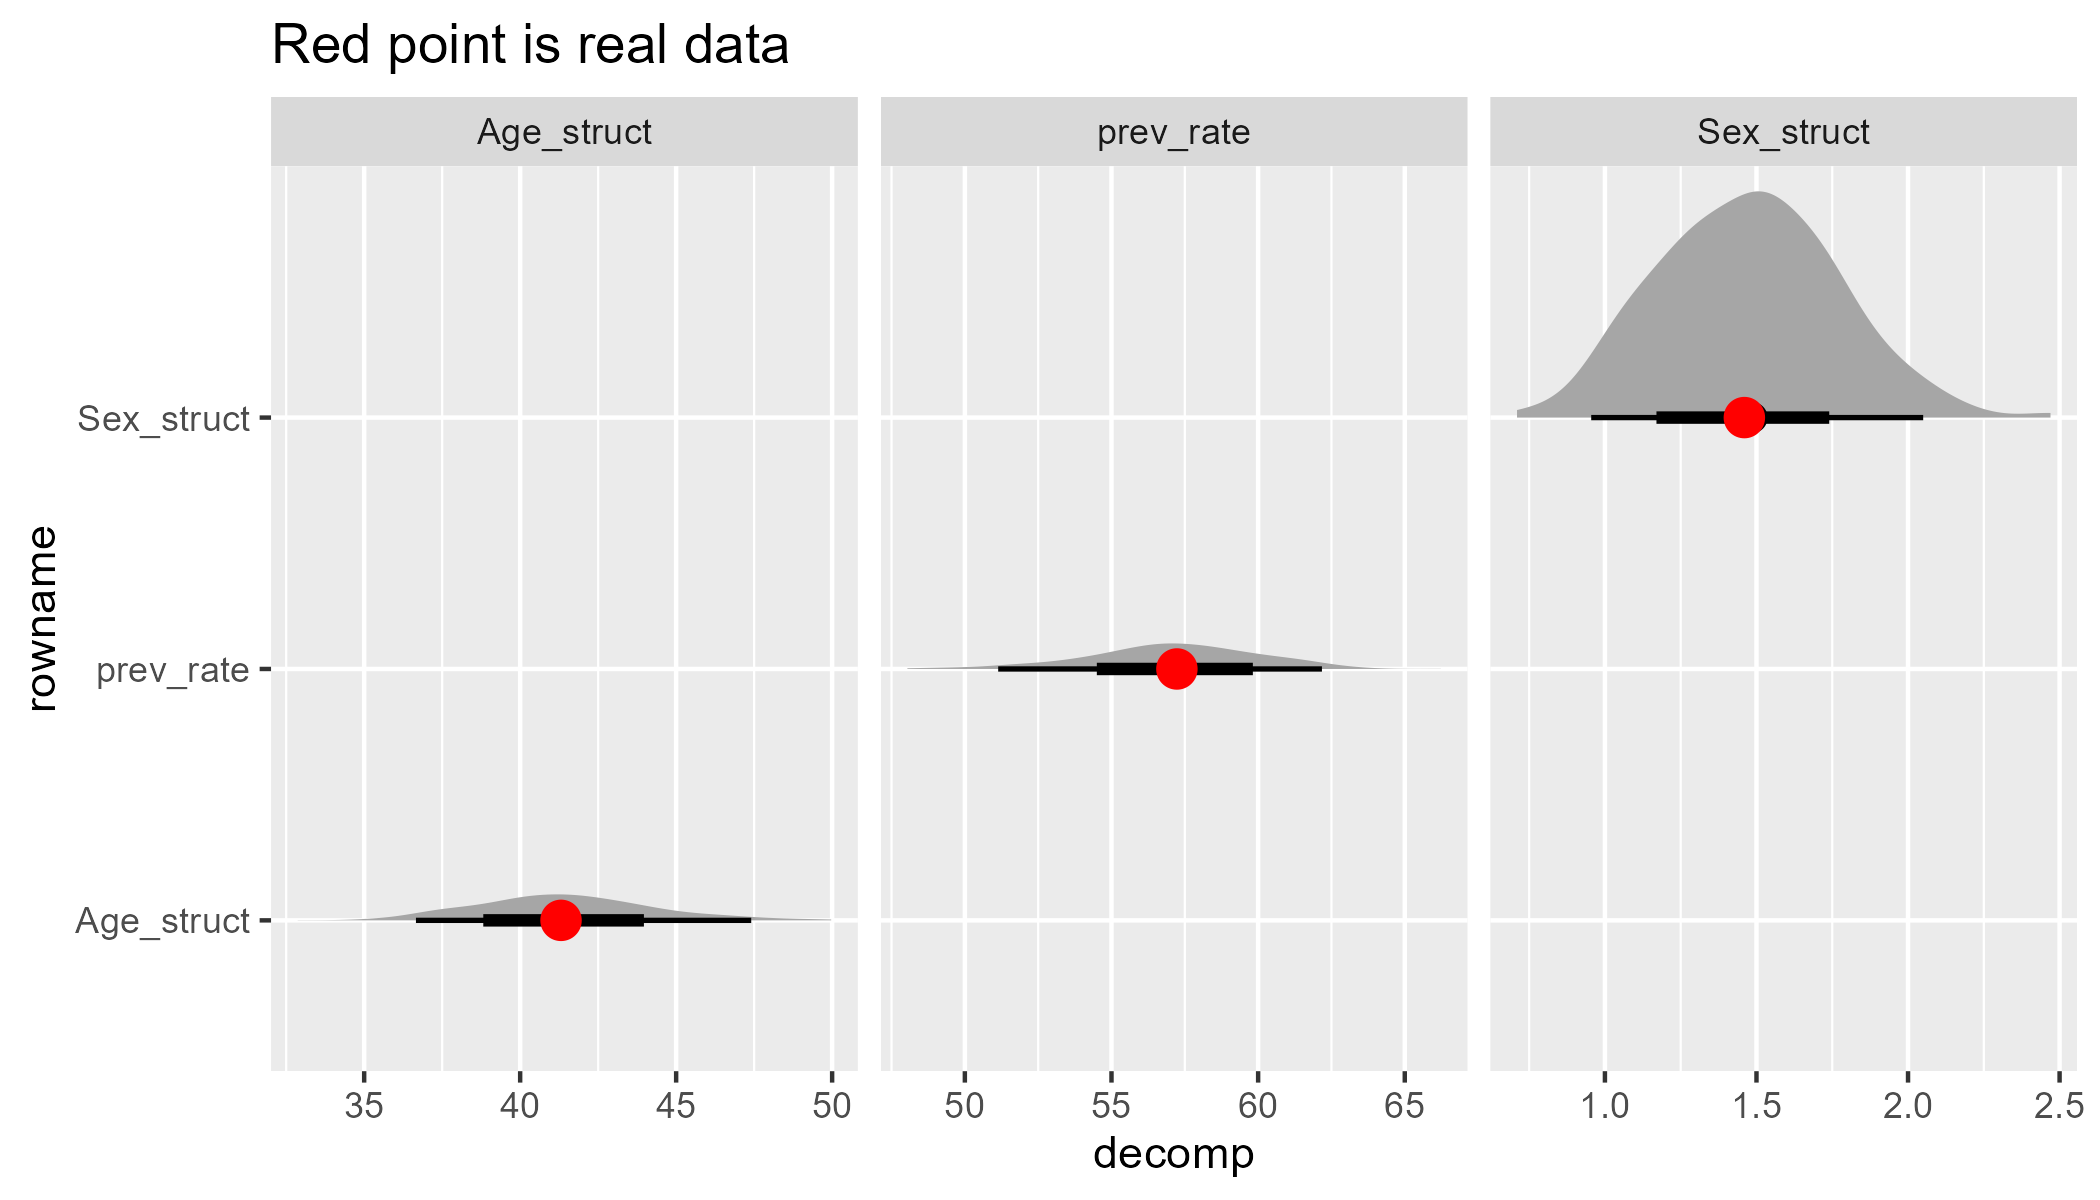
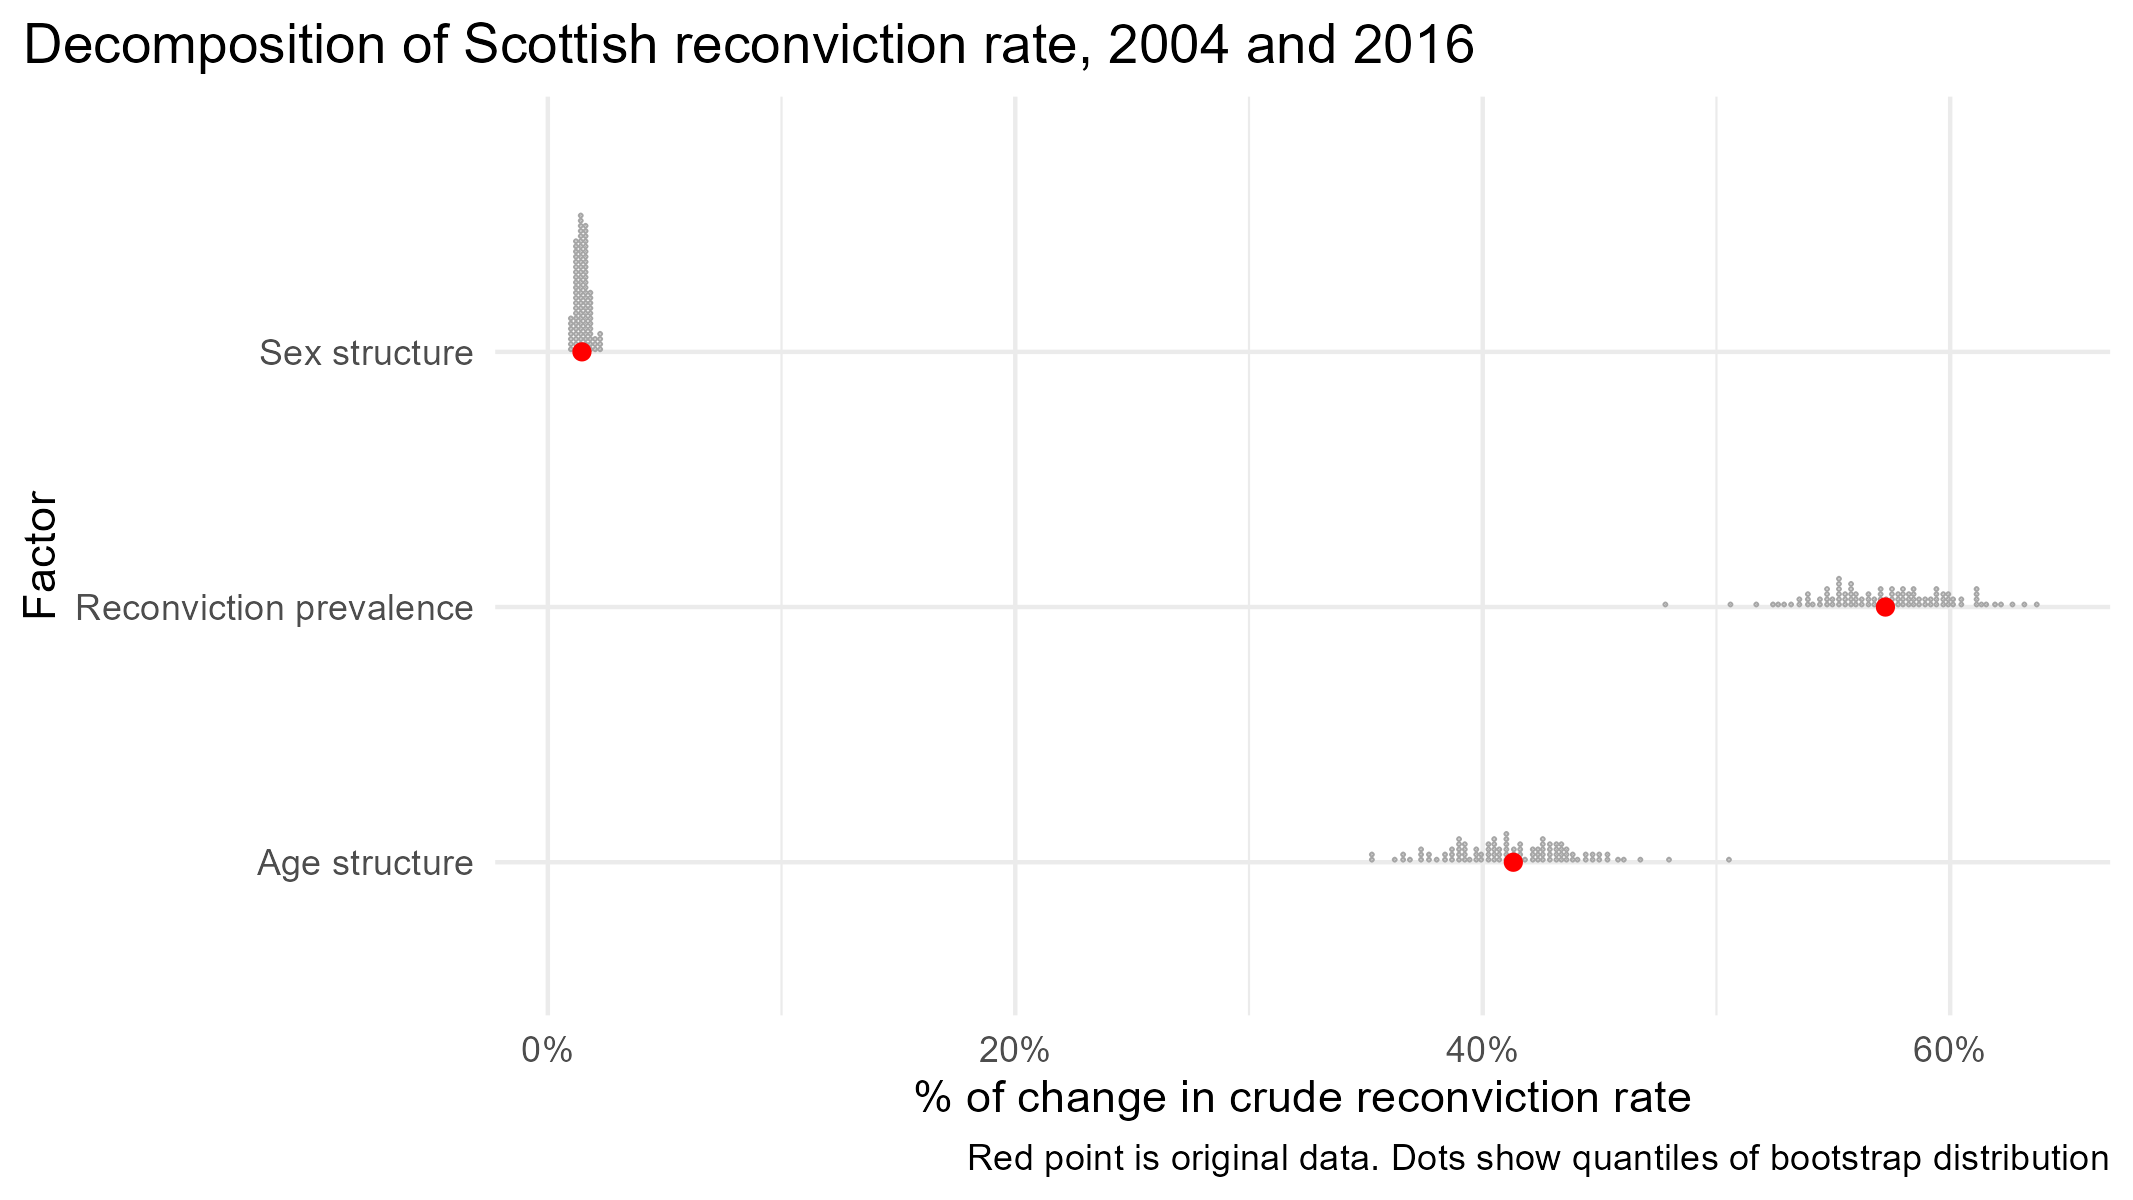
add pretty figures

diff --git a/index.html b/index.html
@@ -229,7 +229,7 @@ Ben Matthews
 <li><p>“The victimisation divide between the base household and almost all socio-economic groups examined here widened between 1993 and 2008/09” <span class="citation" data-cites="hunterEquityJusticeCrime2016">(<a href="#/references" role="doc-biblioref" onclick="">Hunter and Tseloni 2016</a>)</span></p></li>
 <li><p>“For example, non-white [Household Reference Person (HRP)] households experienced almost a fourfold (3.91, calculated as [(1.486–1)−(1.099–1)]/(1.099–1) from Table 2) increase in the number of burglaries suffered compared to white HRP households”<sup>1</sup></p></li>
 </ul>
-<aside><ol class="aside-footnotes"><li id="fn2"><p>I think these numbers are coefficients from a Negative Binomial regression model. It’s possible that they are actually predicted counts - the paper isn’t clear</p></li></ol></aside></section>
+<aside><ol class="aside-footnotes"><li id="fn2"><p>I think these numbers are coefficients from a Negative Binomial regression model? It’s possible that they are actually predicted counts - the paper isn’t clear</p></li></ol></aside></section>
 <section id="the-victimisation-divide-mathematically" class="slide level2">
 <h2>The victimisation divide: Mathematically</h2>
 <ul>
@@ -366,9 +366,47 @@ D = \frac{(1.05 - 1) - (1.11 - 1)}{(1.11 - 1)} = -0.52
 </section>
 <section id="a-nice-example" class="slide level2">
 <h2>A nice example</h2>
-<ul>
-<li>Add in results for 2004/2016</li>
-</ul>
+<table class="caption-top">
+<thead>
+<tr class="header">
+<th>Factor</th>
+<th>2004</th>
+<th>2016</th>
+<th>difference</th>
+<th>decomposition</th>
+</tr>
+</thead>
+<tbody>
+<tr class="odd">
+<td>Age structure</td>
+<td>0.31</td>
+<td>0.28</td>
+<td>-0.02</td>
+<td>41.3</td>
+</tr>
+<tr class="even">
+<td>Reconviction prevalence</td>
+<td>0.31</td>
+<td>0.28</td>
+<td>-0.03</td>
+<td>57.2</td>
+</tr>
+<tr class="odd">
+<td>Sex structure</td>
+<td>0.29</td>
+<td>0.29</td>
+<td>0.00</td>
+<td>1.5</td>
+</tr>
+<tr class="even">
+<td>Crude rate</td>
+<td>0.32</td>
+<td>0.27</td>
+<td>-0.05</td>
+<td>100.0</td>
+</tr>
+</tbody>
+</table>
 </section>
 <section id="a-nice-example-1" class="slide level2">
 <h2>A nice example</h2>
@@ -383,14 +421,56 @@ D = \frac{(1.05 - 1) - (1.11 - 1)}{(1.11 - 1)} = -0.52
 </section>
 <section id="a-not-so-nice-example" class="slide level2">
 <h2>A not-so-nice example</h2>
-<ul>
-<li>Add in results for 2004/2016</li>
-</ul>
+<table class="caption-top">
+<thead>
+<tr class="header">
+<th>Factor</th>
+<th>2015</th>
+<th>2016</th>
+<th>difference</th>
+<th>decomposition</th>
+</tr>
+</thead>
+<tbody>
+<tr class="odd">
+<td>Age structure</td>
+<td>0.27</td>
+<td>0.27</td>
+<td>0</td>
+<td>114.25</td>
+</tr>
+<tr class="even">
+<td>Reconviction prevalence</td>
+<td>0.27</td>
+<td>0.27</td>
+<td>0</td>
+<td>-14.47</td>
+</tr>
+<tr class="odd">
+<td>Sex structure</td>
+<td>0.27</td>
+<td>0.27</td>
+<td>0</td>
+<td>0.22</td>
+</tr>
+<tr class="even">
+<td>Crude rate</td>
+<td>0.27</td>
+<td>0.27</td>
+<td>0</td>
+<td>100.00</td>
+</tr>
+</tbody>
+</table>
 </section>
 <section id="a-not-so-nice-example-1" class="slide level2">
 <h2>A not-so-nice example</h2>
 
-<img data-src="figs/haywire-fig.png" class="r-stretch quarto-figure-center"><p class="caption">haywire-fig</p></section>
+<img data-src="figs/haywire1-fig.png" class="r-stretch quarto-figure-center"><p class="caption">haywire-fig</p></section>
+<section id="a-not-so-nice-example-2" class="slide level2">
+<h2>A not-so-nice example</h2>
+
+<img data-src="figs/haywire2-fig.png" class="r-stretch quarto-figure-center"><p class="caption">haywire-fig</p></section>
 <section id="its-the-same-problem" class="slide level2">
 <h2>It’s the same problem!</h2>
 <ul>
